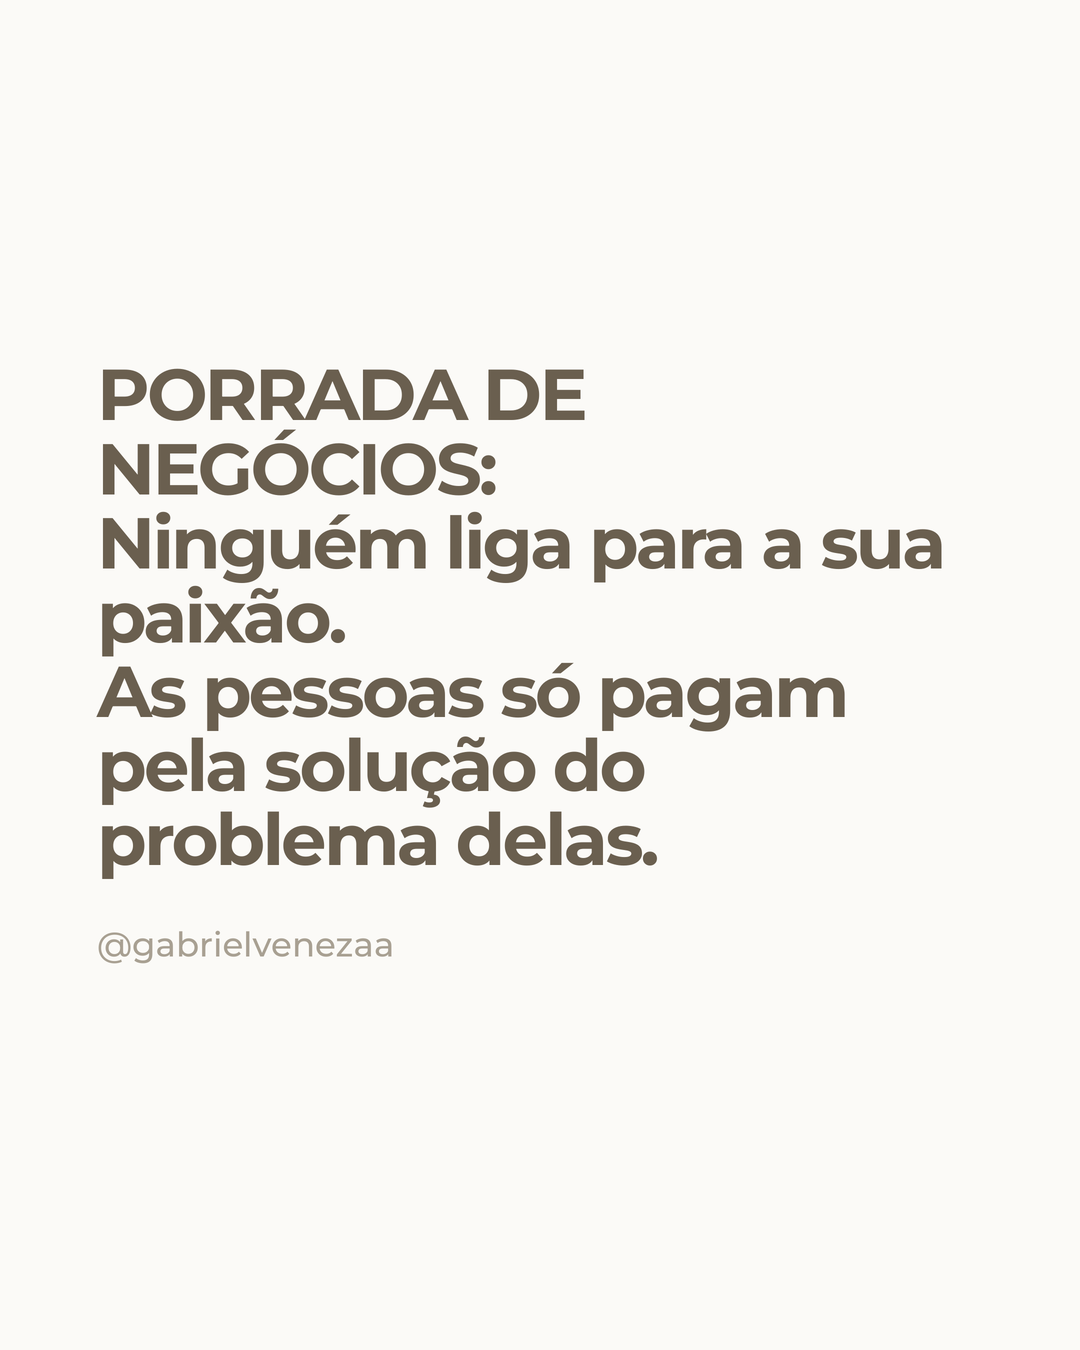
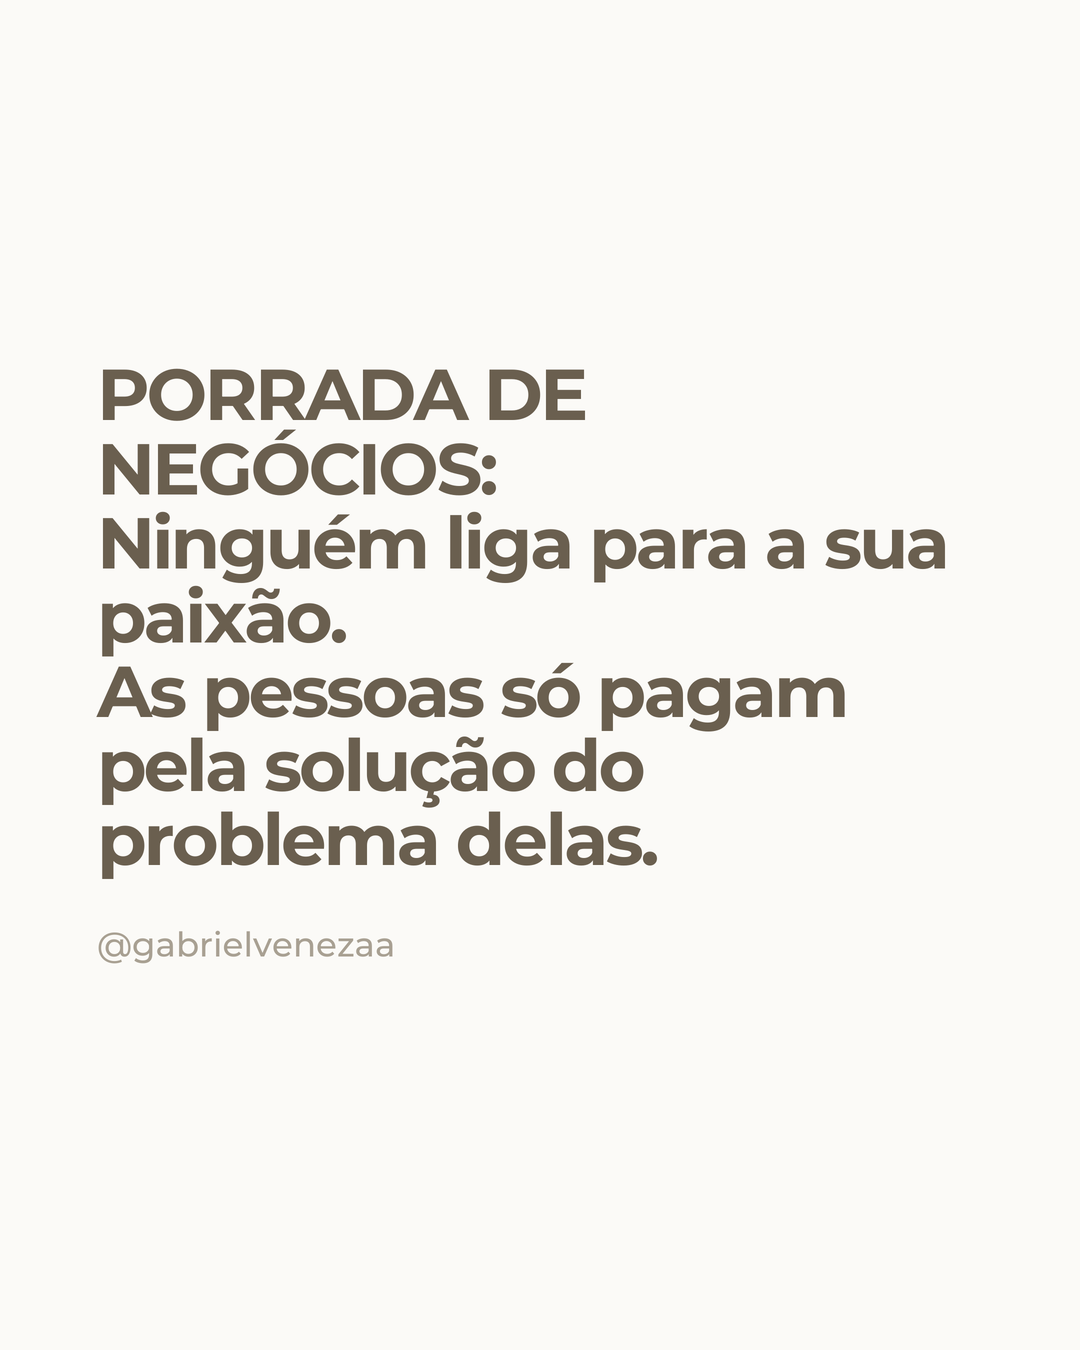
Sempre mostrar @gabrielvenezaa no rodapé

diff --git a/render.py b/render.py
@@ -300,7 +300,7 @@ def renderizar(texto: str, estilo: str, cfg: dict, saida: str) -> str:
                font=fonte("mont", 500, 34 * S), fill=est["sec"])
     elif est["ass"] == "nome_centro":
         f = fonte("mont", 700, 38 * S)
-        n = perfil["nome"]
+        n = "@" + perfil["arroba"]
         d.text(((W * S - f.getlength(n)) / 2, H * S - 190 * S), n, font=f, fill=est["sec"])
 
     img = img.resize((W, H), Image.LANCZOS)
